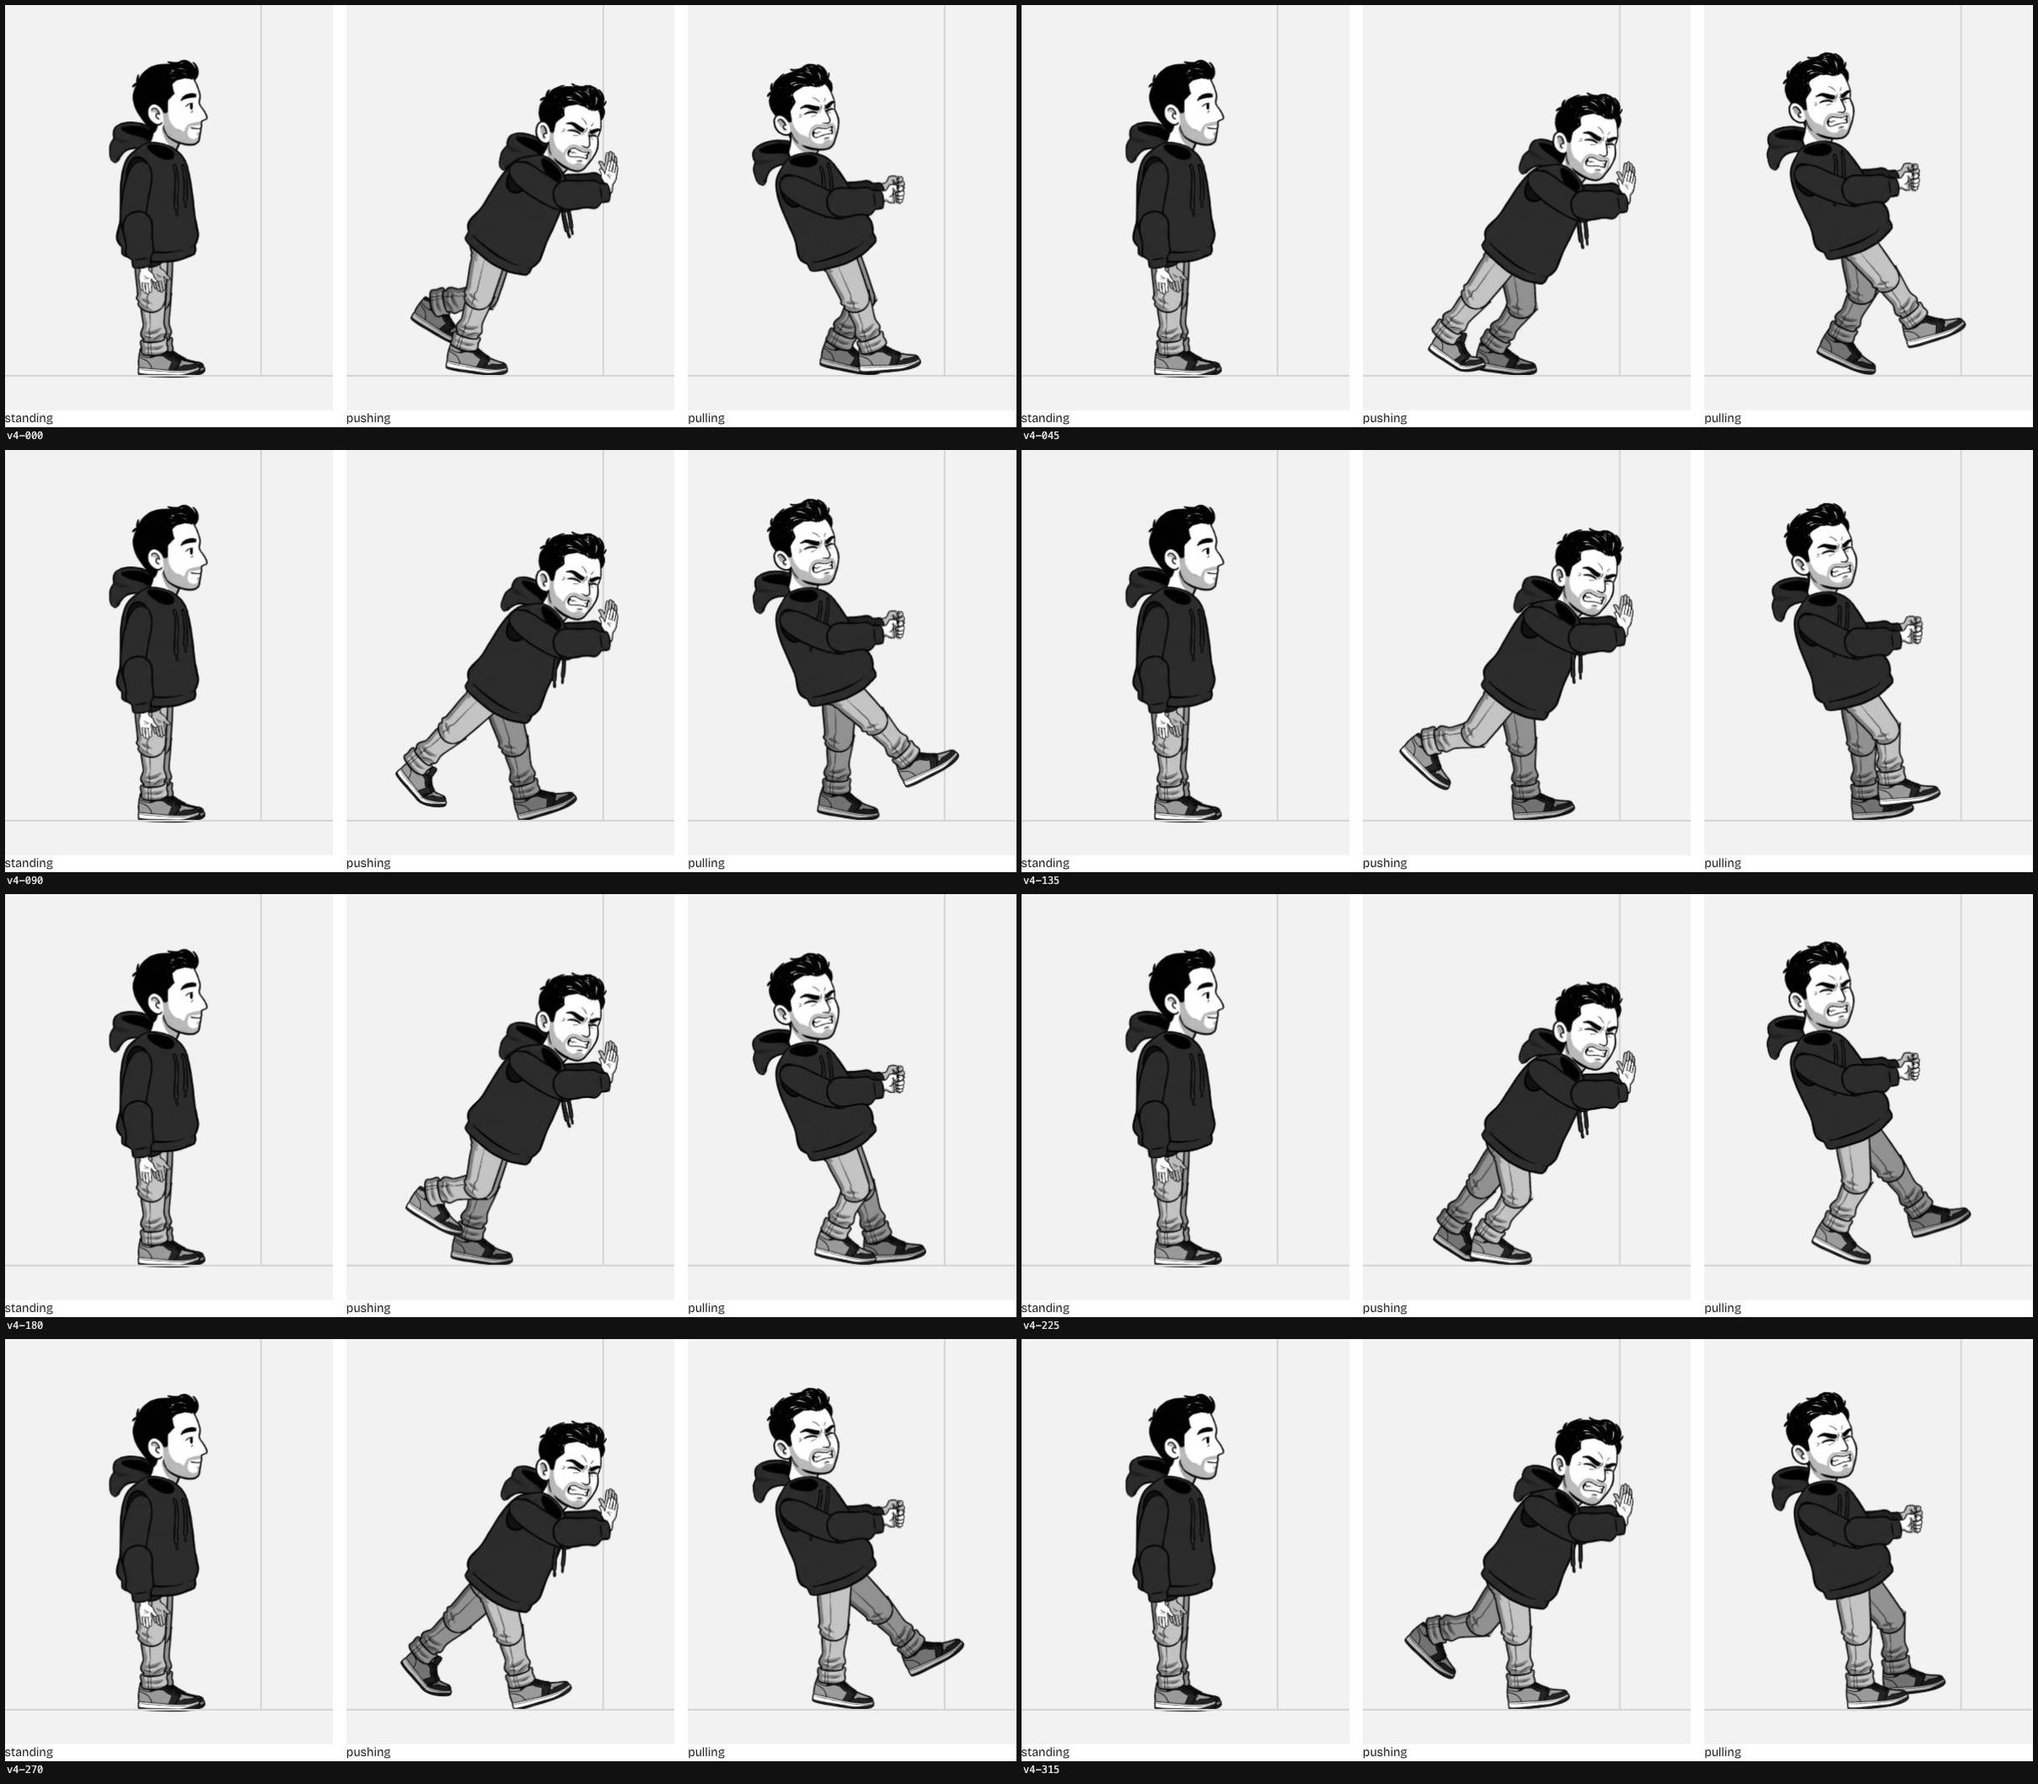
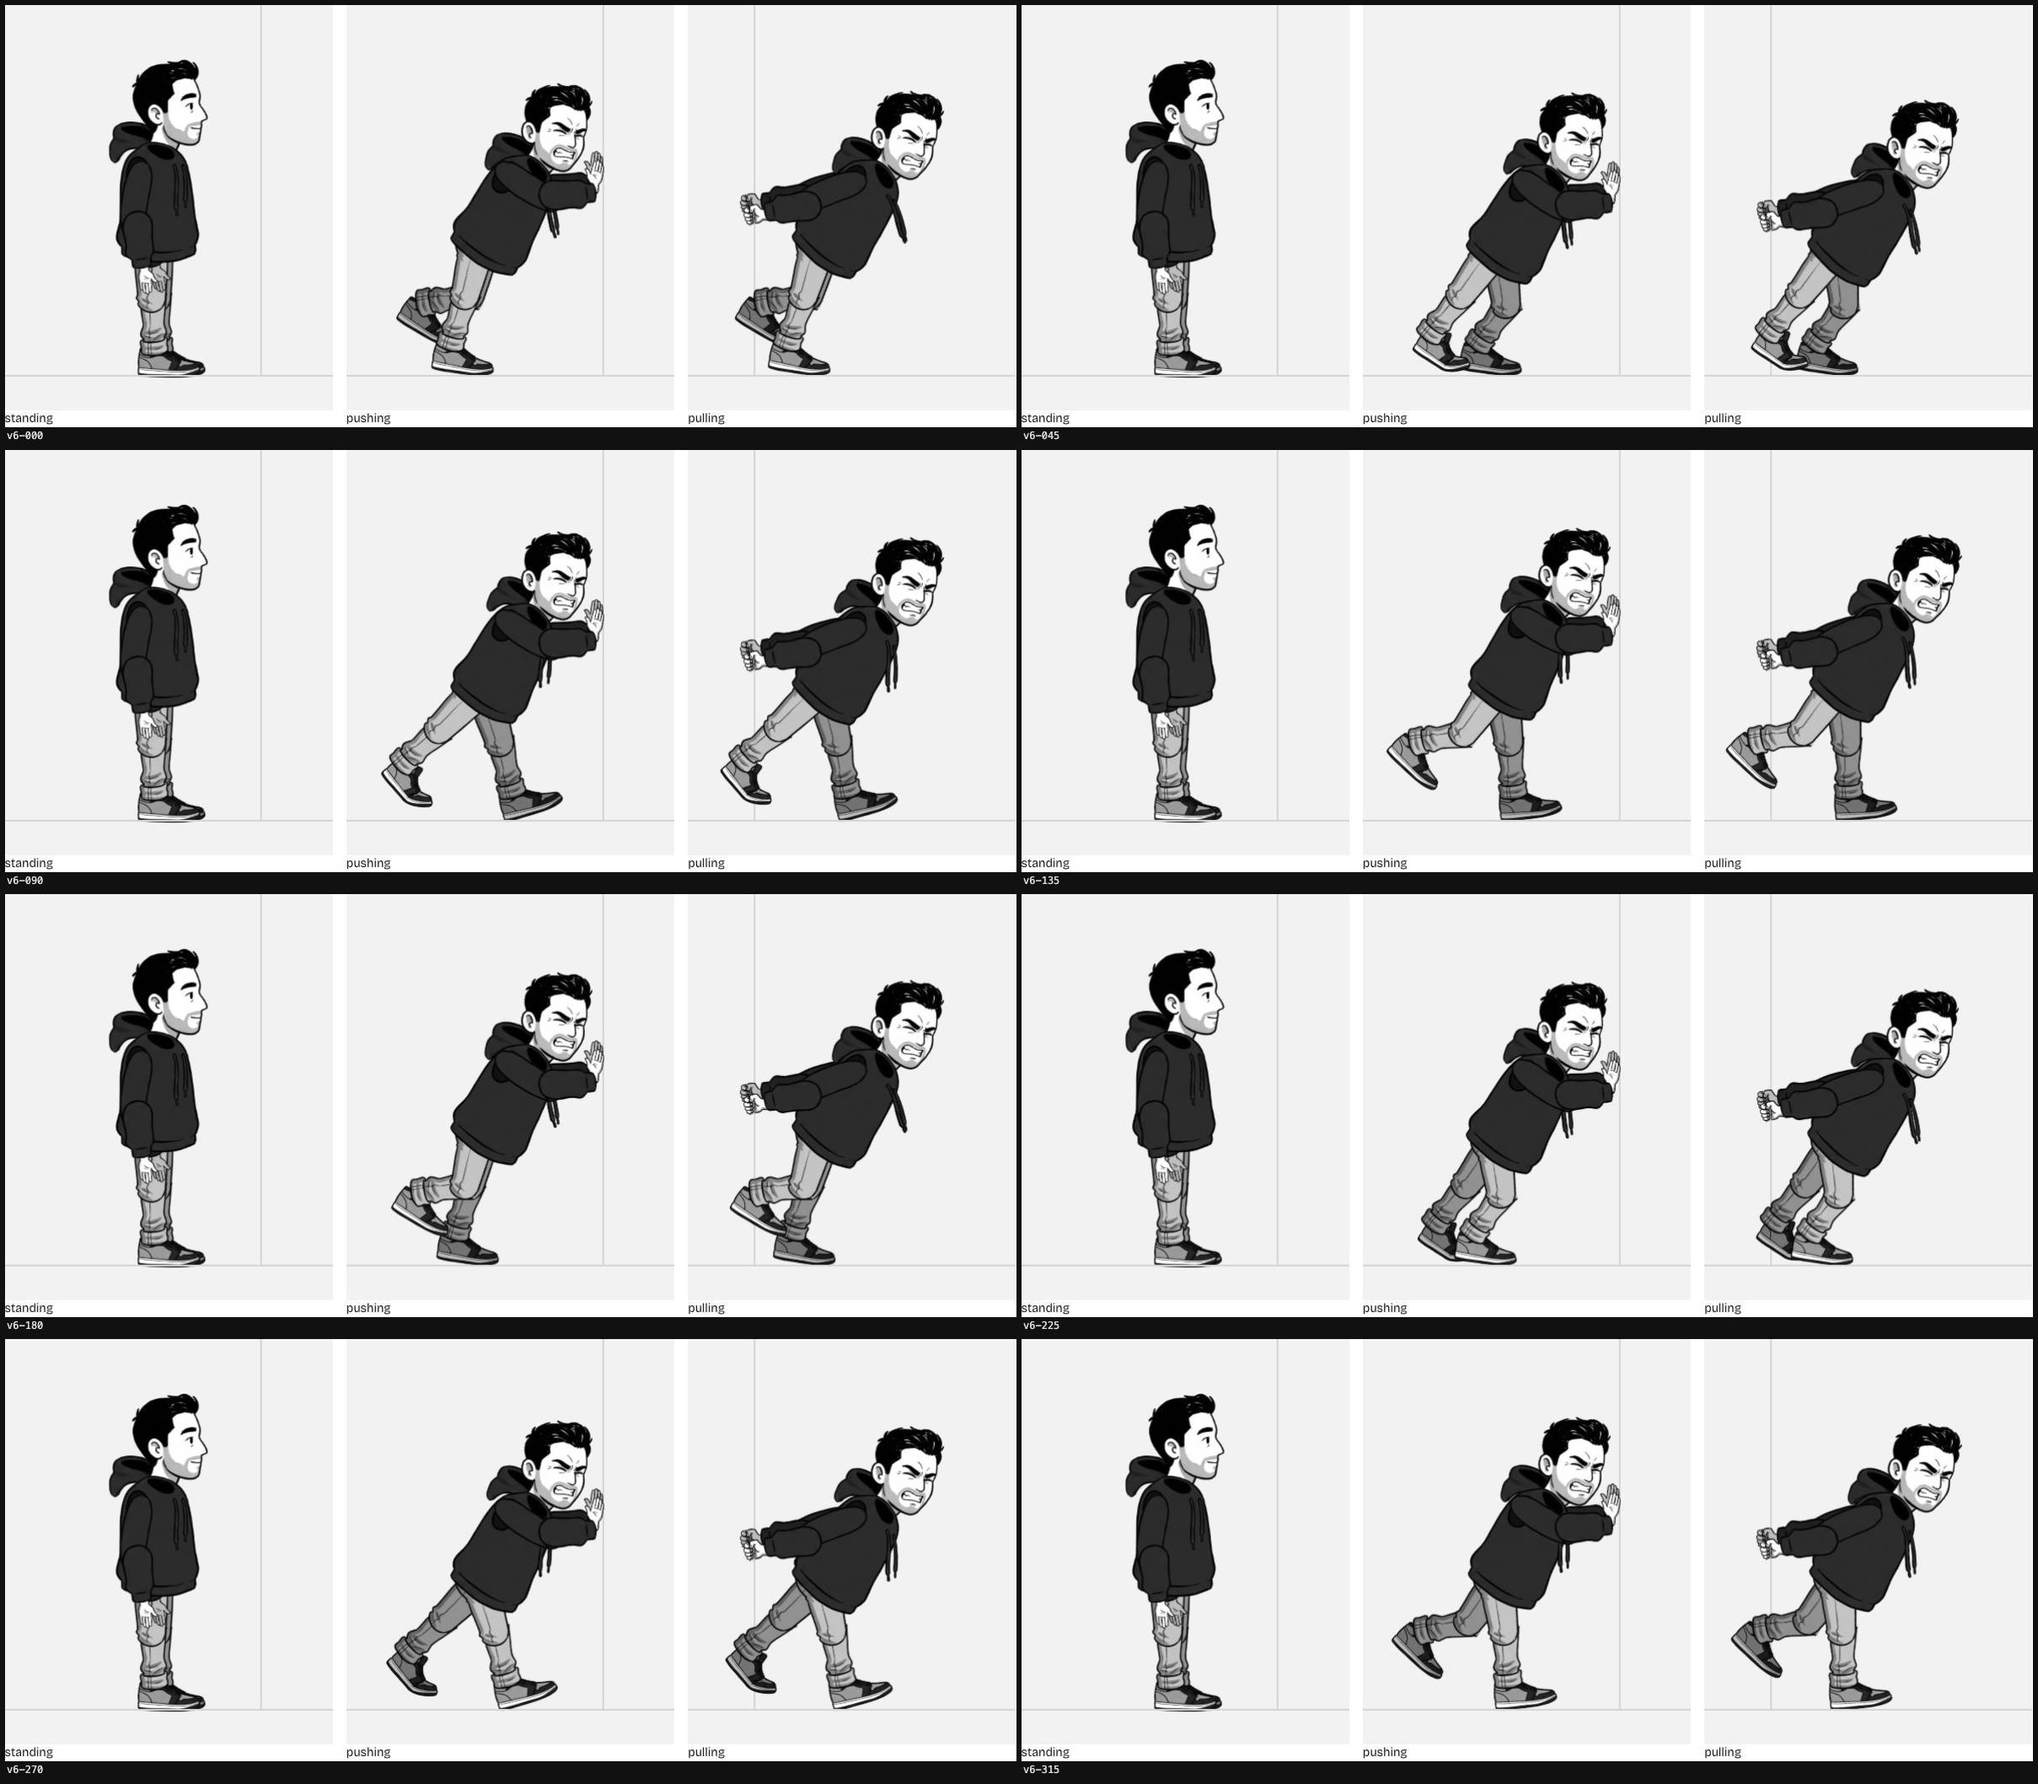
fix: hands pinned to the page edge, clearer dragging and intro on every load
- The character is placed each frame from where its hand lands, so the palm
  (pushing) or the grip (dragging) always sits on the frame edge
- Dragging now faces the direction of travel: he walks forward, leaning,
  with both arms stretched back holding the page
- The intro plays on every full load of the home page

diff --git a/src/scripts/character.ts b/src/scripts/character.ts
@@ -1,6 +1,6 @@
 // Movimiento del personaje (docs/referencias/transicion-personaje.md): poses y ciclos de andar,
 // en ángulos del mundo, y la función que los aplica al muñeco de Character.astro.
-import { ROOT, ankleOf, bone, lowestSole, rotate, type Limbs, type Pose } from '@/data/character-rig';
+import { ROOT, ankleOf, bone, handContact, lowestSole, rotate, type Hand, type Limbs, type Pose } from '@/data/character-rig';
 
 const sin = (deg: number) => Math.sin((deg * Math.PI) / 180);
 const cos = (deg: number) => Math.cos((deg * Math.PI) / 180);
@@ -40,23 +40,30 @@ export function pushing(phase: number): Pose {
   };
 }
 
-/** Arrastrando: echado hacia atrás, las manos agarrando el canto, andando de espaldas */
+/**
+ * Arrastrando: camina hacia delante, muy inclinado, con los dos brazos estirados hacia atrás
+ * agarrando el canto de la página que lleva a rastras.
+ */
 export function pulling(phase: number): Pose {
   const strain = sin(phase * 2);
-  const torso = -24 - 1.6 * strain;
-  const arm = (off: number) => ({ upperArm: -72 + off - 2 * strain, forearm: -8 + off * 0.5, hand: -6 + off });
+  const torso = 36 + 1.8 * strain;
+  const arm = (off: number) => ({ upperArm: 62 + off + 2 * strain, forearm: 168 + off * 0.5, hand: 176 + off, flip: true });
   return {
     torso,
-    head: -10 + 2 * strain,
-    hood: torso * 0.5 + 5 * sin(phase * 2 - 70),
-    cords: 9 * sin(phase * 2 - 110) + 6,
-    near: { ...arm(0), ...leg(-phase, -22, 23, 46), bent: false },
-    far: { ...arm(-6), ...leg(-phase + 180, -22, 23, 46), bent: false },
+    head: 16 - 2 * strain,
+    hood: torso * 0.55 + 5 * sin(phase * 2 - 70),
+    cords: 10 * sin(phase * 2 - 110) - 8,
+    near: { ...arm(0), ...leg(phase, 17, 30, 62) },
+    far: { ...arm(8), ...leg(phase + 180, 17, 30, 62) },
   };
 }
 
-/** Aplica una pose al muñeco: cada pieza recibe su giro respecto a su padre */
-export function applyPose(chr: HTMLElement, pose: Pose) {
+/**
+ * Aplica una pose al muñeco: cada pieza recibe su giro respecto a su padre.
+ * Con `pin`, el personaje se coloca de modo que la mano de delante quede justo en el origen: así
+ * las manos no se separan del canto de la página aunque el cuerpo se mueva.
+ */
+export function applyPose(chr: HTMLElement, pose: Pose, pin?: Hand) {
   const parts = (chr as HTMLElement & { __parts?: Map<string, HTMLElement> }).__parts ?? new Map<string, HTMLElement>();
   if (!parts.size) {
     chr.querySelectorAll<HTMLElement>('[data-j]').forEach((el) => parts.set(el.dataset.j!, el));
@@ -75,7 +82,8 @@ export function applyPose(chr: HTMLElement, pose: Pose) {
     const limbs = pose[side];
     set(`${side}.upperArm`, limbs.upperArm - pose.torso);
     set(`${side}.forearm`, limbs.forearm - limbs.upperArm);
-    set(`${side}.hand`, limbs.hand - limbs.forearm);
+    const hand = parts.get(`${side}.hand`);
+    if (hand) hand.style.transform = `rotate(${(limbs.hand - limbs.forearm).toFixed(2)}deg)${limbs.flip ? ' scaleY(-1)' : ''}`;
     set(`${side}.thigh`, limbs.thigh);
     set(`${side}.shin`, limbs.shin - limbs.thigh);
     set(`${side}.shoe`, limbs.shoe - limbs.shin);
@@ -84,7 +92,8 @@ export function applyPose(chr: HTMLElement, pose: Pose) {
   }
   // La cadera sube o baja para que la suela más baja toque el suelo: así el cuerpo bota al andar
   const root = parts.get('root');
-  if (root) root.style.transform = `translateY(calc(${(-lowestSole(pose)).toFixed(1)} * var(--u)))`;
+  const shift = pin ? -handContact(pose, pin) : 0;
+  if (root) root.style.transform = `translate(calc(${shift.toFixed(1)} * var(--u)), calc(${(-lowestSole(pose)).toFixed(1)} * var(--u)))`;
 }
 
 /** Clona un molde de efecto (polvo o sudor) y lo suelta en un punto del muñeco, en sus unidades */
@@ -113,24 +122,27 @@ const turns = (phase: number, at: number) => Math.floor((phase - at) / 360);
  */
 export function animate(chr: HTMLElement, mode: 'pushing' | 'pulling', phase: number) {
   const pose = mode === 'pushing' ? pushing(phase) : pulling(phase);
-  applyPose(chr, pose);
+  const pin: Hand = mode === 'pushing' ? 'open' : 'grip';
+  applyPose(chr, pose, pin);
+  // Todo lo demás se coloca respecto a la cadera, que ahora está desplazada
+  const shift = -handContact(pose, pin);
 
   const before = last.get(chr);
   last.set(chr, phase);
   if (before === undefined || Math.abs(phase - before) > 120) return;
   const ground = lowestSole(pose);
-  // El pie de detrás, que es el que levanta polvo (al empujar, hacia atrás; al tirar, hacia delante)
-  const back = mode === 'pushing' ? -1 : 1;
+  // El pie que termina su apoyo levanta polvo hacia atrás
+  const back = -1;
   for (const [side, hip, offset] of [[pose.near, ROOT.legNear, 0], [pose.far, ROOT.legFar, 180]] as const) {
     if (turns(phase + offset, 100) !== turns(before + offset, 100)) {
       const ankle = ankleOf(side, hip);
-      emit(chr, 'dust', ankle[0] + back * 30, 0, { '--dx': back * (60 + Math.random() * 30) });
+      emit(chr, 'dust', shift + ankle[0] + back * 30, 0, { '--dx': back * (60 + Math.random() * 30) });
     }
   }
   if (turns(phase, 30) !== turns(before, 30)) {
     const neck = rotate(bone('torso', 'neck'), pose.torso);
     const brow = rotate([70, -190], pose.head);
-    const x = ROOT.waist[0] + neck[0] + brow[0], y = -ground + ROOT.waist[1] + neck[1] + brow[1];
+    const x = shift + ROOT.waist[0] + neck[0] + brow[0], y = -ground + ROOT.waist[1] + neck[1] + brow[1];
     emit(chr, 'sweat', x, y, { '--dx': -(70 + Math.random() * 50), '--dy': -(50 + Math.random() * 40), '--r': '-38deg' });
     emit(chr, 'sweat', x - 20, y + 14, { '--dx': -(120 + Math.random() * 40), '--dy': -(10 + Math.random() * 30), '--r': '-66deg' });
   }

diff --git a/src/data/character-rig.ts b/src/data/character-rig.ts
@@ -97,6 +97,8 @@ export interface Limbs {
   shoe: number;
   /** La zapatilla con la puntera doblada (el momento de impulsar) */
   bent?: boolean;
+  /** La mano, volteada: para cuando el brazo va hacia atrás y la mano quedaría boca abajo */
+  flip?: boolean;
 }
 
 const rad = (deg: number) => (deg * Math.PI) / 180;
@@ -111,6 +113,27 @@ export const bone = (name: PartName, joint: string): [number, number] => {
   const [jx, jy] = part.joints[joint];
   return scaled(part, [jx - part.pivot[0], jy - part.pivot[1]]);
 };
+
+/**
+ * Dónde toca la mano de delante, respecto a la cadera (x, en unidades de muñeco).
+ * - Mano abierta: el punto de la palma más adelantado (lo que apoya contra el canto).
+ * - Mano que agarra: el hueco entre los dedos y la palma (por donde pasa el canto).
+ */
+export function handContact(pose: Pose, hand: Hand): number {
+  const side = pose.near;
+  const shoulder = rotate(bone('torso', 'shoulder'), pose.torso);
+  const elbow = rotate(bone('upperArm', 'elbow'), side.upperArm);
+  const wrist = rotate(bone('forearm', 'wrist'), side.forearm);
+  const base = ROOT.waist[0] + shoulder[0] + elbow[0] + wrist[0];
+  const art = ART.hands[hand];
+  const reach = (point: [number, number]) => {
+    const local = scaled(art, [point[0] - art.pivot[0], point[1] - art.pivot[1]]);
+    return rotate(side.flip ? [local[0], -local[1]] : local, side.hand)[0];
+  };
+  if (hand === 'grip') return base + reach([124, 74]);
+  // Puntas de los dedos, centro de la palma y talón de la mano
+  return base + Math.max(...([[226, 58], [150, 124], [60, 126]] as [number, number][]).map(reach));
+}
 
 /** Tobillo de una pierna respecto a la cadera, en unidades de muñeco (y hacia abajo) */
 export function ankleOf(side: Limbs, hip: [number, number]): [number, number] {

diff --git a/docs/referencias/roadmap-prototipo-def.md b/docs/referencias/roadmap-prototipo-def.md
@@ -237,7 +237,8 @@ trayectoria ha vuelto y no quedan ni la letra a mano ni el azul.
 
 - [x] **Intro** (hecha el 19 nov, adelantada a petición tuya; aprobada el 19 nov):
   - Lo que pediste: la animación del vídeo de `docs/videos/` y, después, la de eloicotonat.com.
-  - La secuencia (unos 2,5–3 s; solo en la primera visita de la sesión):
+  - La secuencia (unos 2,5–3 s). Desde el 19 nov sale cada vez que se carga la home, no solo la
+    primera vez de la sesión: lo pediste al no verla al recargar.
     1. **Trazado** (800 ms): todos los contornos de la caricatura y de "made by chris" se dibujan
        a la vez, en línea fina de grafito, sobre el lienzo liso. Como en el vídeo.
     2. **Espera en contorno** hasta que están las fuentes y la foto del hero (mínimo 300 ms,
@@ -248,8 +249,7 @@ trayectoria ha vuelto y no quedan ni la letra a mano ni el azul.
        web; a la vez, las piezas del hero entran una detrás de otra (suben 14 px con un fundido).
   - De Eloi se toma la mecánica (iris y entrada escalonada), no su lenguaje de cámara: sin
     visor, sin REC y sin flash.
-  - **Para repetirla**: abrir la home con `?intro` en la dirección (`/?intro`). Así sale siempre,
-    también al recargar; sin eso solo sale una vez por sesión.
+  - `?intro` en la dirección la fuerza aunque esté activado "reducir movimiento".
   - Salidas: cualquier tecla o clic salta a la salida; sin intro con ancla en la URL, "reducir
     movimiento" o ahorro de datos; si el JavaScript falla, la pantalla se quita sola a los 7 s.
   - Las letras de la marca pasan a ser trazados (`src/data/lockup-text.json`, generado con

diff --git a/docs/referencias/transicion-personaje.md b/docs/referencias/transicion-personaje.md
@@ -166,3 +166,22 @@ entera recta, zapatilla normal y con la puntera doblada, gotas de sudor y nubeci
 Lo que aún mejoraría el resultado, sin ser imprescindible: la misma lámina a más resolución (las
 piezas dan lo justo para pantallas retina al tamaño máximo) y una cara de esfuerzo de perfil
 estricto, para alternarla con la de ojos cerrados.
+
+## Ajustes tras verlo Christian (19 nov)
+
+Le gustó mucho, con tres pegas:
+
+1. **Las manos quedaban separadas de la página.** Ahora la posición del personaje se calcula en
+   cada instante a partir de dónde cae la mano (`handContact()` en `character-rig.ts`): la palma, al
+   empujar, o el hueco de la mano que agarra, al arrastrar, quedan siempre justo en el canto del
+   frame, un punto montadas sobre la página. Ya no hay distancias puestas a ojo.
+2. **No distinguía el arrastre del empuje**, porque en los dos el personaje miraba a la izquierda.
+   Ahora, al volver, mira a la derecha (hacia donde va), camina hacia delante muy inclinado y lleva
+   la página a rastras con los dos brazos estirados hacia atrás. La mano se voltea para que no quede
+   boca abajo.
+3. **"He perdido la animación de entrada".** No estaba rota: solo salía una vez por sesión. Ahora
+   sale **cada vez que se carga la home** (al entrar o al recargar), y no al llegar a ella navegando
+   desde otra página. Cambia lo que decía el plan (una vez por sesión, como Eloi).
+
+Hojas de muestra, también en `docs/imgs/avatar/`: `transicion-ida.jpg`, `transicion-vuelta.jpg`,
+`transicion-movil.jpg` y `ciclos-ocho-fases.jpg`.
